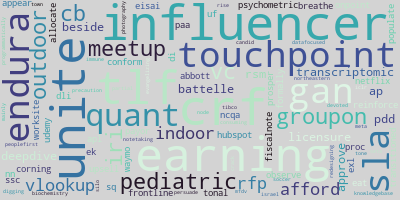
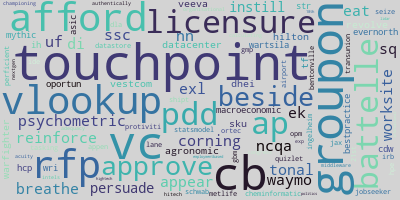
finished parsing monograms down to automobile

diff --git a/nlp_main.py b/nlp_main.py
@@ -991,7 +991,65 @@ def clean_for_nlp(series_of_interest):
                                             'moveworks', 'bottomline', 'permanently', 'accessed', 'edc', 'limc1', 'selfsufficient',
                                             'saint', 'grad', 'pubsub', 'elder', 'onpoint', 'entered', 'cleared', 'upsell',
                                             'nudge', '47', 'transcriptomics', 'preview', 'gadget', 'overarching', 'od',
-                                            'frontline', 'ethically', 'pragmatism', 'elasticity', 'markit']))) + ds_skills_combined
+                                            'frontline', 'ethically', 'pragmatism', 'elasticity', 'markit', 'stellar', 'jefferson',
+                                            'calculating', 'safeguarding', 'ridesharing', 'harris', 'beloved', 'ncqa', 'swap',
+                                            'ihs', 'bentonville', 'jax', 'nccharlotte', 'outsourced', 'hightech', 'tenacious',
+                                            'veteransdisabled', 'revolve', 'approve', 'airport', '21st', 'congress', 'windowlearn',
+                                            'faith', 'adequacy', 'lumen', 'negotiable', 'moines', 'rivian', 'steady', 'http',
+                                            'lgbtqia', 'waymo', 'exp', 'informational', 'singledose', 'spearhead', 'forwarded',
+                                            'authentically', 'lane', 'battelle', 'unmanned', 'triple', '1015', 'shine', '95',
+                                            'intels', 'gmp', 'novo', 'championing', 'encouragement', 'henry', 'businessdriven',
+                                            'tasking', 'framing', 'optimizely', 'hitech', 'paycheck', 'exl', '18th', 'sub', 'irb',
+                                            'organisational', 'displaced', 'offtheshelf', 'surprise', 'employmentbased', 'myers',
+                                            'ds', 'ssc', 'apparel', 'acuity', 'politics', 'amd', 'accelerates', 'persuade',
+                                            'cart', 'accolade', 'extensible', 'quoras', 'favorable', 'respiratory', 'customizable',
+                                            'mateo', 'podcasting', 'sts', 'agony', 'film', 'franklin', 'administered', 'wisdom',
+                                            'electronically', 'reshaping', 'accepts', '29', 'corning', 'examining', 'certify',
+                                            'researchdriven', 'butterfly', 'tendency', 'ceremony', 'adaptation', 'approachable',
+                                            'cvpr', 'httpspwctocoloradoifsseniorassociate', 'childhood', 'bwh', 'groupon',
+                                            'banker', 'administers', 'sanction', 'marcus', 'becomes', 'breathe', 'memphis',
+                                            'birth', 'performancebased', 'affectional', 'quota', 'bhg', 'driverless',
+                                            'affordability', 'volleyball', 'arch', 'str', 'patientcentered', 'macroeconomic',
+                                            'rarely', 'multitouch', 'annualized', 'tabulation', 'longstanding', 'challengesand',
+                                            'extractionmanipulation', 'programssoftware', 'theater', 'earlier', 'offense',
+                                            'expenditure', 'netezza', 'seize', 'extensively', 'ne', 'outlining', 'texture',
+                                            'wellestablished', 'faulttolerant', 'cheminformatics', 'hpe', 'ev', 'consultings',
+                                            'agronomic', '2010', 'midb', 'invision', 'didnt', 'valueadd', 'cap', 'laserfocused',
+                                            'aetna', 'freelancer', 'prospecting', 'ra', 'despite', 'refresh', 'replenishment',
+                                            'seasonal', 'codebases', 'httpcareerstravelerscomlifeattravelersbenefits', 'ace',
+                                            'multiplier', 'b2c', 'reynolds', 'infinite', 'undertaking', 'schwab', '1500',
+                                            'omnicell', 'lipost', 'albertsons', '65000','teleworking', 'koch', 'apiai',
+                                            'initiating', 'console', 'telehealth', 'columnar', 'metlife', 'mam', 'workrelated',
+                                            'preparedness', 'arl', 'com', 'approaching', 'raceethnicity', 'nicetohaves',
+                                            'biweekly', 'statisticstechnologyscienceengineeringapplied', 'super', 'kid',
+                                            'categorical', 'largely', 'hilton', 'vha', 'skin', 'cb', 'longrange', 'commander', 
+                                            'followthrough', 'psychological', 'np', 'c4it', 'amphibious', 'middleware', 'rush',
+                                            'erwin', 'httpspearsonbenefitsuscom', 'breakneck', 'digitalfirst', 'mash',
+                                            'risktaking', 'quizlet', 'reject', 'lowes', 'memorable', 'vested', 'splitting',
+                                            'allergan', 'tcpip', 'esteemed', 'steinberg', 'goat', 'protiviti', 'collector',
+                                            'devising', 'parse', 'epidemiologist', 'familyfriendly', 'softwareasaservice',
+                                            'deserves', 'reconnaissance', 'earliest', 'sculley', 'shoulder', 'shipt',
[1 lines of base64/hex data omitted]
+                                            'jack', 'globalreach', 'deepening', 'pson', 'whilst', 'wwwpearsoncom', 'mgb',
+                                            'usageperformance', 'stoop', 'emea', 'serial', 'vcs', 'itil', 'behaviorresults',
+                                            'quiet', 'somewhere', 'solidity', 'malicious', 'cecl', 'graduated', 'cst',                                            
[1 lines of base64/hex data omitted]
+                                            'citrine', 'quadrant', '101', 'identifier', '03', 'miningdata', 'infrastructureascode',
+                                            'achieves', 'governed', 'resumescvs', 'overlap', 'confusion', 'witai', 'os', 'flock',
+                                            'massively', 'singlecell', 'granularity', 'egoless', 'imagined', 'mechanic',
+                                            'servicessupport', 'preserve', 'differ', 'labeled', 'ton', 'productionalization',
+                                            'stationary', 'siriusxmpandora', 'eur', 'dismemberment', 'persistence', 'census',
+                                            'ingelheim', 'xylem', 'wireframes', 'mixing', 'hcp', 'exos', 'ehs', 'executivelevel',
+                                            'highmark', 'adjudication', 'azimuth', 'httpsxenai', 'waltham', 'allegiance',
+                                            'lifesaving', 'bee', 'signing', 'resultant', 'vigilant', 'dayworking', 'stitch',
+                                            'conceptualizing', 'bramble', 'advised', 'di', 'connector', 'mitreand', 'hhsc',
+                                            'siriusxm', 'twice', 'tel', 'pandora', 'quantitate', 'productizing', 'comparing',
+                                            'workbench', 'foursquare', 'reallife', 'resolved', 'demography', 'soothsayer',
+                                            'lease', 'nonus', 'delay', 'laugh', 'testability', 'budgeted', 'selfaware',
+                                            'invitae', 'resulted', 'crosssell', 'zillow', 'booking', 'reader', 'postersupplement',
+                                            'sysco', 'perficient', 'healthineers', 'soil', 'assures', 'onnx', 'rehabilitation',
+                                            'nato', 'equalopportunity', 'favor', 'farfetch', 'silver', 'cdw', 'lattice', 'pwcs',
+                                            'consist', 'techdriven', 'precedent', 'africa', 'attends', 'automobile']))) + ds_skills_combined
     
     stop_words = nltk.corpus.stopwords.words('english') + additional_stopwords + ds_cred_terms + ds_prof_skill_terms + ds_soft_skill_terms + ds_tech_skill_terms
     
@@ -1008,9 +1066,6 @@ def clean_for_nlp(series_of_interest):
     # execute post-lemmatization stopword removal to drop unnecessary lemma
     print('Post-lemmatization stopword removal...')
     terms_for_nlp = [x for x in terms_for_nlp if x not in additional_stopwords]
-    print(f'\nLemmatization Time: {(time.time() - start_time) / 60:.2f} minutes')
-    
-    print(f'\Processing Time to Here: {(time.time() - start_time) / 60:.2f} minutes')
     
     return terms_for_nlp
 
@@ -1090,8 +1145,6 @@ def visualize_indeed_data(df):
     ax.set_title('Jobs by State')
     ax.set_xticklabels(ax.get_xticklabels(), rotation=90)
     
-    print(f'\Processing Time to Here: {(time.time() - start_time) / 60:.2f} minutes')
-
 
 def visualize_n_grams(n_grams):
     '''
@@ -1367,6 +1420,7 @@ ds_cred_terms = ['ability',
                  'linkedin',
                  'major',
                  'master',
+                 'mastersphd',
                  'mathematics', 
                  'mathematicsstatistics',
                  'mathematician',
@@ -1456,6 +1510,7 @@ ds_tech_skill_terms = ['ab',
                        'advanced',
                        'algebra',
                        'algorithm',
+                       'algorithmsmodels', 
                        'algorithmic',
                        'alteryx',
                        'amazon',
@@ -1533,6 +1588,7 @@ ds_tech_skill_terms = ['ab',
                      'chatbots',
                      'classification',
                      'classifier',
+                     'classify',
                      'clean',
                      'cleaning',
                      'cleansing',
@@ -1578,6 +1634,7 @@ ds_tech_skill_terms = ['ab',
                      'crfs',
                      'crm',
                      'cs',
+                     'csv',
                      'cuda',
                      'curate',
                      'curated',
@@ -1698,6 +1755,7 @@ ds_tech_skill_terms = ['ab',
                      'fundamental',
                      'fusion',
                      'gans',
+                     'gbm',
                      'generation',
                      'generated',
                      'generative',
@@ -1715,6 +1773,7 @@ ds_tech_skill_terms = ['ab',
                      'github', 
                      'gitlab',
                      'glm',
+                     'glmregression',
                      'glue',
                      'golang',
                      'google',
@@ -1722,6 +1781,7 @@ ds_tech_skill_terms = ['ab',
                      'gpus',
                      'gradient', 
                      'graph',
+                     'graphbased',
                      'graphic',
                      'graphql',
                      'groundbreaking',
@@ -1805,6 +1865,7 @@ ds_tech_skill_terms = ['ab',
                      'learningdeep',
                      'lex',
                      'library',
+                     'lidar',
                      'lifecycle',
                      'likelihood',
                      'linear', 
@@ -1880,6 +1941,7 @@ ds_tech_skill_terms = ['ab',
                      'multivariate',
                      'munging',
                      'mxnet',
+                     'mssql',
                      'mysql',
                      'naive', 
                      'natural',
@@ -1888,12 +1950,15 @@ ds_tech_skill_terms = ['ab',
                      'neo4j',
                      'network',
                      'next',
+                     'nextgen',
                      'nextgeneration',
                      'neural', 
                      'nifi',
                      'nlp',
                      'nltk',
                      'nlu',
+                     'nn',
+                     'nns',
                      'nodejs', 
                      'nonlinear',
                      'nonparametric',
@@ -1904,6 +1969,7 @@ ds_tech_skill_terms = ['ab',
                      'numeric', 
                      'numerical',
                      'numpy',
+                     'numpyscipy',
                      'nvidia',
                      'object',
                      'objectoriented',
@@ -1926,6 +1992,7 @@ ds_tech_skill_terms = ['ab',
                      'orchestrate',
                      'orchestrates', 
                      'orchestration',
+                     'orchestrating',
                      'outlier',
                      'paas',
                      'panda', 
@@ -1972,6 +2039,7 @@ ds_tech_skill_terms = ['ab',
                      'programing',
                      'programming', 
                      'programmingscripting',
+                     'pso',
                      'python',
                      'pythonr',
                      'pyspark',
@@ -2037,6 +2105,7 @@ ds_tech_skill_terms = ['ab',
                      'sampling',
                      'sap',
                      'sasbase',
+                     'sasgraph',
                      'sasstat',
                      'satellite',
                      'scala',
@@ -2095,12 +2164,15 @@ ds_tech_skill_terms = ['ab',
                      'sparkml',
                      'spatial',
                      'speech', 
+                     'speechlanguage',
+                     'speechtotext',
                      'splunk', 
                      'spotfire',
                      'spreadsheet',
                      'sprint',
                      'spss',
                      'sql',
+                     'slq',
                      'sqoop',
                      'ssis',
                      'stack',
@@ -2121,6 +2193,7 @@ ds_tech_skill_terms = ['ab',
                      'supervised', 
                      'supervises',
                      'svm',
+                     'svn',
                      'svms',
                      'synthetic',
                      'system',
@@ -2193,6 +2266,7 @@ ds_tech_skill_terms = ['ab',
                      'web',
                      'weka',
                      'wrangle',
+                     'wranglingcleansing',
                      'wrangling',
                      'xgboost',
                      'xml']    
@@ -2411,6 +2485,7 @@ ds_soft_skill_terms = ['ad',
                      'savvy',
                      'scrum',
                      'selfdirected',
+                     'selfdirection',
                      'selfdriven',
                      'selfstarter',
                      'selfstarters',
